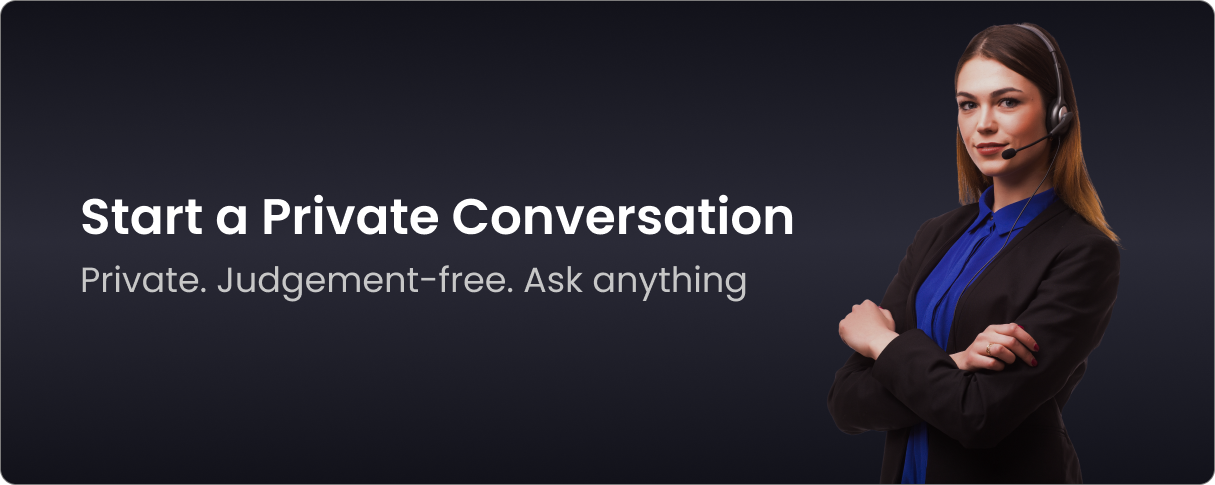
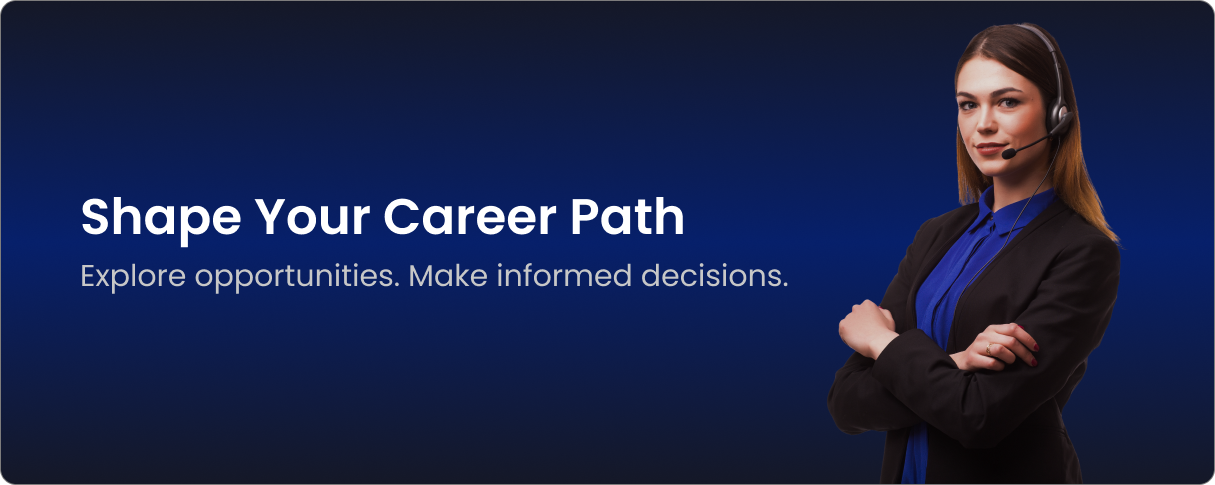
Add counseling hero images and refactor Sidebar and Counseling components for improved structure and voice selection

diff --git a/frontend/src/components/Sidebar.jsx b/frontend/src/components/Sidebar.jsx
@@ -15,24 +15,29 @@ import { Button } from '@/components/ui/button';
 import { Tooltip, TooltipContent, TooltipProvider, TooltipTrigger } from '@/components/ui/tooltip';
 import { DropdownMenu, DropdownMenuContent, DropdownMenuItem, DropdownMenuTrigger } from '@/components/ui/dropdown-menu';
 
-const featureNav = [
-  { to: '/studio', label: 'AI Studio', Icon: Sparkles, tid: 'nav-studio' },
-  { to: '/chat', label: 'AI Workspace', Icon: MessageSquare, tid: NAV.linkChat },
-  { label: 'Code Builder', Icon: Code2, children: [
-    { to: '/builder', label: 'Static Code Builder', Icon: FileText, tid: 'nav-builder' },
-    { label: 'Dynamic Code Builder', Icon: Rocket, locked: true },
+const SECTIONS = [
+  { key: 'ai', title: 'AI', items: [
+    { to: '/studio', label: 'AI Studio', Icon: Sparkles, tid: 'nav-studio' },
+    { to: '/chat', label: 'AI Workspace', Icon: MessageSquare, tid: NAV.linkChat },
   ] },
-  { to: '/counseling', label: 'Counseling', Icon: Heart, tid: 'nav-counseling' },
-  { to: '/career', label: 'Career Intelligence', Icon: Briefcase, tid: 'nav-career' },
-];
-
-const settingsNav = [
-  { to: '/usage', label: 'Usage', Icon: BarChart3, tid: NAV.linkUsage },
-  { to: '/wallet', label: 'Credit Wallet', Icon: Wallet, tid: NAV.linkWallet },
-  { to: '/billing', label: 'Billing', Icon: CreditCard, tid: NAV.linkBilling },
-  { to: '/notifications', label: 'Notifications', Icon: Bell, tid: NAV.linkNotifications },
-  { to: '/profile', label: 'Profile', Icon: UserIcon, tid: NAV.linkProfile },
-  { to: '/settings', label: 'Settings', Icon: Settings, tid: NAV.linkSettings },
+  { key: 'build', title: 'Build', items: [
+    { label: 'Code Builder', Icon: Code2, children: [
+      { to: '/builder', label: 'Static Builder', Icon: FileText, tid: 'nav-builder' },
+      { label: 'Dynamic Builder', Icon: Rocket, locked: true },
+    ] },
+  ] },
+  { key: 'learn', title: 'Learn', items: [
+    { to: '/counseling', label: 'Counseling', Icon: Heart, tid: 'nav-counseling' },
+    { to: '/career', label: 'Career Intelligence', Icon: Briefcase, tid: 'nav-career' },
+  ] },
+  { key: 'account', title: 'Account', items: [
+    { to: '/usage', label: 'Usage', Icon: BarChart3, tid: NAV.linkUsage },
+    { to: '/wallet', label: 'Credit Wallet', Icon: Wallet, tid: NAV.linkWallet },
+    { to: '/billing', label: 'Billing', Icon: CreditCard, tid: NAV.linkBilling },
+    { to: '/notifications', label: 'Notifications', Icon: Bell, tid: NAV.linkNotifications },
+    { to: '/profile', label: 'Profile', Icon: UserIcon, tid: NAV.linkProfile },
+    { to: '/settings', label: 'Settings', Icon: Settings, tid: NAV.linkSettings },
+  ] },
 ];
 
 const comingSoon = [
@@ -53,7 +58,7 @@ export default function Sidebar({ onMobileClose, mobile = false }) {
   const user = useSelector((s) => s.auth.user);
   const dispatch = useDispatch();
   const navigate = useNavigate();
-  const [open, setOpen] = useState({ features: true, settings: true });
+  const [open, setOpen] = useState({});  // section/submenu keys default to open
 
   const handleLogout = () => {
     dispatch(logout());
@@ -121,17 +126,18 @@ export default function Sidebar({ onMobileClose, mobile = false }) {
 
   const renderSection = (key, title, items) => {
     if (collapsed) return renderNav(items);  // icon-only: no headers, always shown
+    const isOpen = open[key] !== false;  // default expanded
     return (
       <>
         <button
           type="button"
-          onClick={() => setOpen((o) => ({ ...o, [key]: !o[key] }))}
+          onClick={() => setOpen((o) => ({ ...o, [key]: o[key] === false }))}
           className="flex items-center gap-1 w-full px-2.5 pb-2 text-[11px] uppercase tracking-wider text-muted-foreground/70 font-medium hover:text-muted-foreground"
         >
-          <ChevronDown className={cn('h-3 w-3 transition-transform', !open[key] && '-rotate-90')} strokeWidth={2.5} />
+          <ChevronDown className={cn('h-3 w-3 transition-transform', !isOpen && '-rotate-90')} strokeWidth={2.5} />
           <span>{title}</span>
         </button>
-        {open[key] && renderNav(items)}
+        {isOpen && renderNav(items)}
       </>
     );
   };
@@ -198,11 +204,11 @@ export default function Sidebar({ onMobileClose, mobile = false }) {
 
         {/* Main nav */}
         <nav className="flex-1 overflow-y-auto px-2 pb-2 space-y-0.5">
-          {renderSection('features', 'Features', featureNav)}
-
-          <div className={cn(!collapsed && 'pt-4')}>
-            {renderSection('settings', 'Settings', settingsNav)}
-          </div>
+          {SECTIONS.map((s, i) => (
+            <div key={s.key} className={cn(i > 0 && !collapsed && 'pt-4')}>
+              {renderSection(s.key, s.title, s.items)}
+            </div>
+          ))}
 
           {user?.role === 'admin' && (
             <NavLink to="/admin" className={linkClass} data-testid={NAV.linkAdmin} onClick={onMobileClose}>

diff --git a/frontend/src/pages/Counseling.jsx b/frontend/src/pages/Counseling.jsx
@@ -44,6 +44,25 @@ export default function Counseling() {
   useEffect(() => { scrollRef.current?.scrollTo({ top: scrollRef.current.scrollHeight, behavior: 'smooth' }); }, [messages, loading]);
   useEffect(() => () => window.speechSynthesis?.cancel(), []);  // stop TTS on unmount
 
+  // Pick a female English voice as the default. ponytail: name-heuristic — Web Speech
+  // exposes no gender field, so we match known female voice names; falls back to any voice.
+  const voiceRef = useRef(null);
+  useEffect(() => {
+    const synth = window.speechSynthesis;
+    if (!synth) return;
+    const pick = () => {
+      const voices = synth.getVoices();
+      if (!voices.length) return;
+      const en = voices.filter(v => /^en/i.test(v.lang));
+      const pool = en.length ? en : voices;
+      const female = pool.find(v => /female|woman|zira|samantha|susan|karen|tessa|fiona|moira|serena|victoria|allison|joanna|salli|kendra|hazel|linda|heera|aria|jenny|sonia|neerja|google uk english female|google us english/i.test(v.name));
+      voiceRef.current = female || pool[0] || null;
+    };
+    pick();
+    synth.addEventListener('voiceschanged', pick);
+    return () => synth.removeEventListener('voiceschanged', pick);
+  }, []);
+
   const speak = (text, idx) => {
     const synth = window.speechSynthesis;
     if (!synth) return toast.error('Text-to-speech not supported in this browser');
@@ -52,6 +71,7 @@ export default function Counseling() {
     // strip markdown so it reads cleanly
     const clean = text.replace(/\[(.*?)\]\(.*?\)/g, '$1').replace(/[*_`#>]/g, '');
     const u = new SpeechSynthesisUtterance(clean);
+    if (voiceRef.current) { u.voice = voiceRef.current; u.lang = voiceRef.current.lang; }
     u.onend = u.onerror = () => setSpeakingIdx(null);
     setSpeakingIdx(idx);
     synth.speak(u);